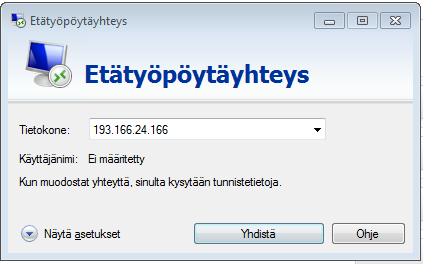
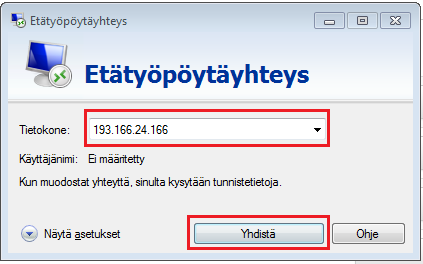
Added docs on how to connect to remote computer.

Changed region(s): [[0.4303, 0.7879, 0.7991, 0.9697], [0.1844, 0.3939, 0.7991, 0.5758]]

diff --git a/log-in-to-pb-and-access.md b/log-in-to-pb-and-access.md
@@ -28,30 +28,61 @@ having a door in a house: you cannot access the house without having an open doo
  
 ## 2. Connect to the computer instance
 
-There are basically two things that you need to have for being able to use a remote computer instance: 
- 
- - IP address of the (running) computer instance
- - Remote Desktop software (a 'viewer') at your local computer that is used to access the remote computer
+There are basically two steps that you need to do for being able to connect to a remote (cloud) computer instance: 1) find out the 
+IP address of the (running) computer instance and 2) connect to it with Remote Desktop software at your local computer. 
 
-There are slightly different ways of accessing the cloud computer instance depending on:
+There are slightly different ways of accessing the cloud computer instance that is depending on:
  
- - Operating System (Windows / Mac / Linux)
- - Remote Desktop software (or protocol) that you are using (RDP / VNC)
+ - the operating system that you have on your local computer (Windows / Mac / Linux) 
+ - Remote Desktop software (or protocol) that you are using
  
-Below are instructions how to access the computer instance on different systems (choose the one that you have). 
+Below are instructions how to access the computer instance on different systems (follow the one that you have). 
 
-### 2.1 Copy and paste the IP address of your computer instance
+### 2.1 Copy the IP address of your computer instance
 
 This step is common for all operating systems.
  
 You can find the IP address from the Computing Dashboard under the **'Access'** column. Copy and paste only the numbers. 
-We won't be needing the rest of the information mentioned there. *(They are used for taking a specific SSH connection (with command prompt) to the computer).*   
+We won't be needing the rest of the information mentioned there. 
+*(They are used for taking a specific SSH connection with command prompt to the computer).*   
 
  ![Copy IP address of the computer instance](img/13_copy_access_IP_address.PNG)
 
 ### 2.2A Connect to computer instance on Windows
 
+On Windows we introduce two different softwares that can be used for connecting the remote computer, namely **'TightVNC Viewer'** and a 
+**'Remote Desktop Connection'** -tool (in finnish 'Etätyöpöytäyhteys'). [TightVNC Viewer](http://www.tightvnc.com/) is freely available 
+and open source remote desktop software that has some nice features and is smooth to use. We will be using this tool in the GIS labs 
+where they are installed on the computers. If you want, you can also [download](http://www.tightvnc.com/download.php) and install 
+this tool to your own computer. 
 
+[Remote Desktop Connection](https://support.microsoft.com/en-us/help/17463/windows-7-connect-to-another-computer-remote-desktop-connection) -tool is 
+another remote desktop software that comes with every Windows computer. It is more simple but has slightly 'un-smoothier' user experience when in use 
+compared to TightVNC. However, it is highly recommendable option since it can be used from any Windows computer 
+(e.g. from the computers in the University's libraries or your own Windows computer) without any additional installation.  
+  
+**Connecting with TightVNC Viewer -software**
+    
+  - add docs
+  
+**Connecting with Remote Desktop Connection -tool**
+
+ 1. Start the tool by clicking the Windows Start button and searching it with word 'Etätyöpöytäyhteys' (or 'Remote Desktop Connection' in english)
+  
+  ![Open Remote Desktop Connection](img/14_open_remote_desktop.PNG)
+  
+ 2. Paste the IP address of your computer instance that you copied in the previous step (2.1) and press 'Yhdistä' (eng. 'Connect')
+  
+  ![Fill in the IP address](img/15_paste_ip_to_remote_desktop.PNG)
+  
+ 3. Log into the computer instance by pressing OK.
+ 
+  ![Press ok](img/16_log_into_server.PNG)
+ 
+ 4. That's it! You're inside the remote computer and ready to roll. 
+ 
+  ![Inside the remote computer](img/17_work_environment.PNG)
 
 ### 2.2B Connect to computer instance on Mac / Linux
   
+  - Add docs here 
